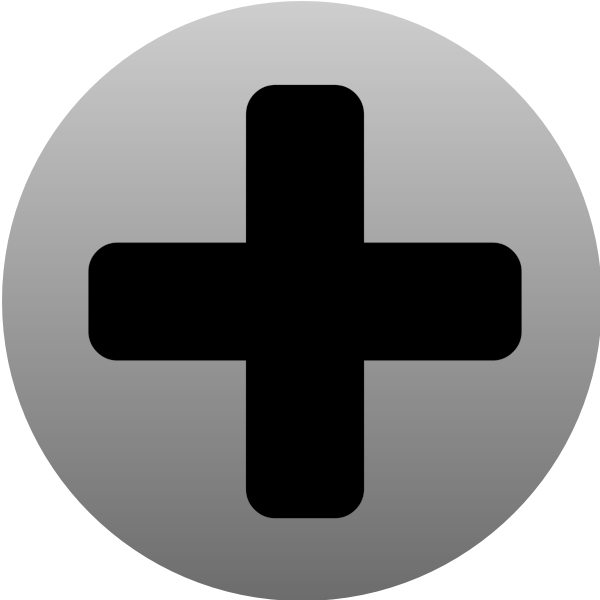
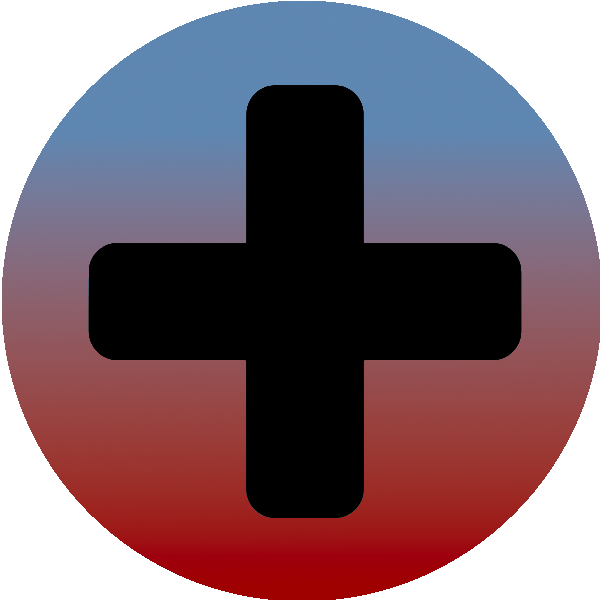
improved GUI, added mockup
removed mockup placeholder
removed profiling placeholder
added mockup.png
added improved button image
added colors to GUI
added enter functionality to GUI
removed visible cursor from GUI
enlarged font size of calculator input

diff --git a/src/calcgui.py b/src/calcgui.py
@@ -41,7 +41,7 @@ class CalcGridLayout(GridLayout):
             except ValueError:
                 self.display.text = "MATH ERROR"
                 self.ERR = True
-            except Exception:
+            except IndexError:
                 self.display.text = "INVALID INPUT"
                 self.ERR = True
 
@@ -71,13 +71,15 @@ class CalcGridLayout(GridLayout):
             self.display.text += text
 
 
+# background_color: 0.851, 0.48627, 0, 1
 # Creating App class
 class CalculatorApp(App):
 
     def build(self):
         file = Builder.load_string("""
 # Custom button
-<CustButton@Button>:
+<CalcButton@Button>:
+    background_color: 0, 0.5411, 0.847, 0.7
     font_size: 36
 
     # Defining id of the grid layout
@@ -94,31 +96,37 @@ class CalculatorApp(App):
     # Where input is displayed
     BoxLayout:
         TextInput:
+            cursor_width: 0 
+            background_color: 0, 0.48627, 0.489, 1
             id: entry
-            font_size: 32
+            font_size: 56
             multiline: False
+            on_text_validate: calculator.calculate(entry.text)
+            text_validate_unfocus: False
             focus: True
-            
+
     # First row of buttons          
     BoxLayout:
         spacing: 10
-        CustButton:
+        CalcButton:
+            background_color: 1, 0, 0, 0.85
             text: "AC"
             on_press: calculator.clear()
             on_release: entry.focus = True
-        CustButton:
+        CalcButton:
+            background_color: 1, 0, 0, 0.85
             text: "DEL"
             on_press: calculator.delete()
             on_release: entry.focus = True
-        CustButton:
+        CalcButton:
             text: "("
             on_press: calculator.enter("(")
             on_release: entry.focus = True
-        CustButton:
+        CalcButton:
             text: ")"
             on_press: calculator.enter(")")
             on_release: entry.focus = True
-        CustButton:
+        CalcButton:
             text: "%"
             on_press: calculator.enter("%")
             on_release: entry.focus = True
@@ -126,23 +134,26 @@ class CalculatorApp(App):
     # Second row of buttons
     BoxLayout:
         spacing: 10
-        CustButton:
+        CalcButton:
+            background_color: 0, 0.5411, 0.847, 0.9
             text: "7"
             on_press: calculator.enter("7")
             on_release: entry.focus = True
-        CustButton:
+        CalcButton:
+            background_color: 0, 0.5411, 0.847, 0.9
             text: "8"
             on_press: calculator.enter("8")
             on_release: entry.focus = True
-        CustButton:
+        CalcButton:
+            background_color: 0, 0.5411, 0.847, 0.9
             text: "9"
             on_press: calculator.enter("9")
             on_release: entry.focus = True
-        CustButton:
+        CalcButton:
             text: "+"
             on_press: calculator.enter("+")
             on_release: entry.focus = True
-        CustButton:
+        CalcButton:
             text: "-"
             on_press: calculator.enter("-")
             on_release: entry.focus = True
@@ -150,23 +161,26 @@ class CalculatorApp(App):
     # Third row of buttons
     BoxLayout:
         spacing: 10
-        CustButton:
+        CalcButton:
+            background_color: 0, 0.5411, 0.847, 0.9
             text: "4"
             on_press: calculator.enter("4")
             on_release: entry.focus = True
-        CustButton:
+        CalcButton:
+            background_color: 0, 0.5411, 0.847, 0.9
             text: "5"
             on_press: calculator.enter("5")
             on_release: entry.focus = True
-        CustButton:
+        CalcButton:
+            background_color: 0, 0.5411, 0.847, 0.9
             text: "6"
             on_press: calculator.enter("6")
             on_release: entry.focus = True
-        CustButton:
+        CalcButton:
             text: "*"
             on_press: calculator.enter("*")
             on_release: entry.focus = True
-        CustButton:
+        CalcButton:
             text: "/"
             on_press: calculator.enter("/")
             on_release: entry.focus = True
@@ -174,23 +188,26 @@ class CalculatorApp(App):
     # Fourth row of buttons
     BoxLayout:
         spacing: 10
-        CustButton:
+        CalcButton:
+            background_color: 0, 0.5411, 0.847, 0.9
             text: "1"
             on_press: calculator.enter("1")
             on_release: entry.focus = True
-        CustButton:
+        CalcButton:
+            background_color: 0, 0.5411, 0.847, 0.9
             text: "2"
             on_press: calculator.enter("2")
             on_release: entry.focus = True
-        CustButton:
+        CalcButton:
+            background_color: 0, 0.5411, 0.847, 0.9
             text: "3"
             on_press: calculator.enter("3")
             on_release: entry.focus = True
-        CustButton:
+        CalcButton:
             text: "^"
             on_press: calculator.enter("^")
             on_release: entry.focus = True
-        CustButton:
+        CalcButton:
             text: "√"
             on_press: calculator.enter("√")
             on_release: entry.focus = True
@@ -200,29 +217,32 @@ class CalculatorApp(App):
     # to the calculate function
     BoxLayout:
         spacing: 10
-        CustButton:
+        CalcButton:
             text: "!"
             on_press: calculator.enter("!")
             on_release: entry.focus = True
-        CustButton:
+        CalcButton:
+            background_color: 0, 0.5411, 0.847, 0.9
             text: "0"
             on_press: calculator.enter("0")
             on_release: entry.focus = True
-        CustButton:
+        CalcButton:
             text: "="
             on_press: calculator.calculate(entry.text)
             on_release: entry.focus = True
-        CustButton:
+        CalcButton:
             text: "."
             on_press: calculator.enter(".")
             on_release: entry.focus = True
-        CustButton:
+        CalcButton:
+            background_color: 1, 1, 1, 0.5
             text: "HELP"
             on_press: calculator.help()
             on_release: entry.focus = True
 
 """)
         return CalcGridLayout()
+
 
 # Create the App and load the kv file
 # The kv file is a python file that contains the
